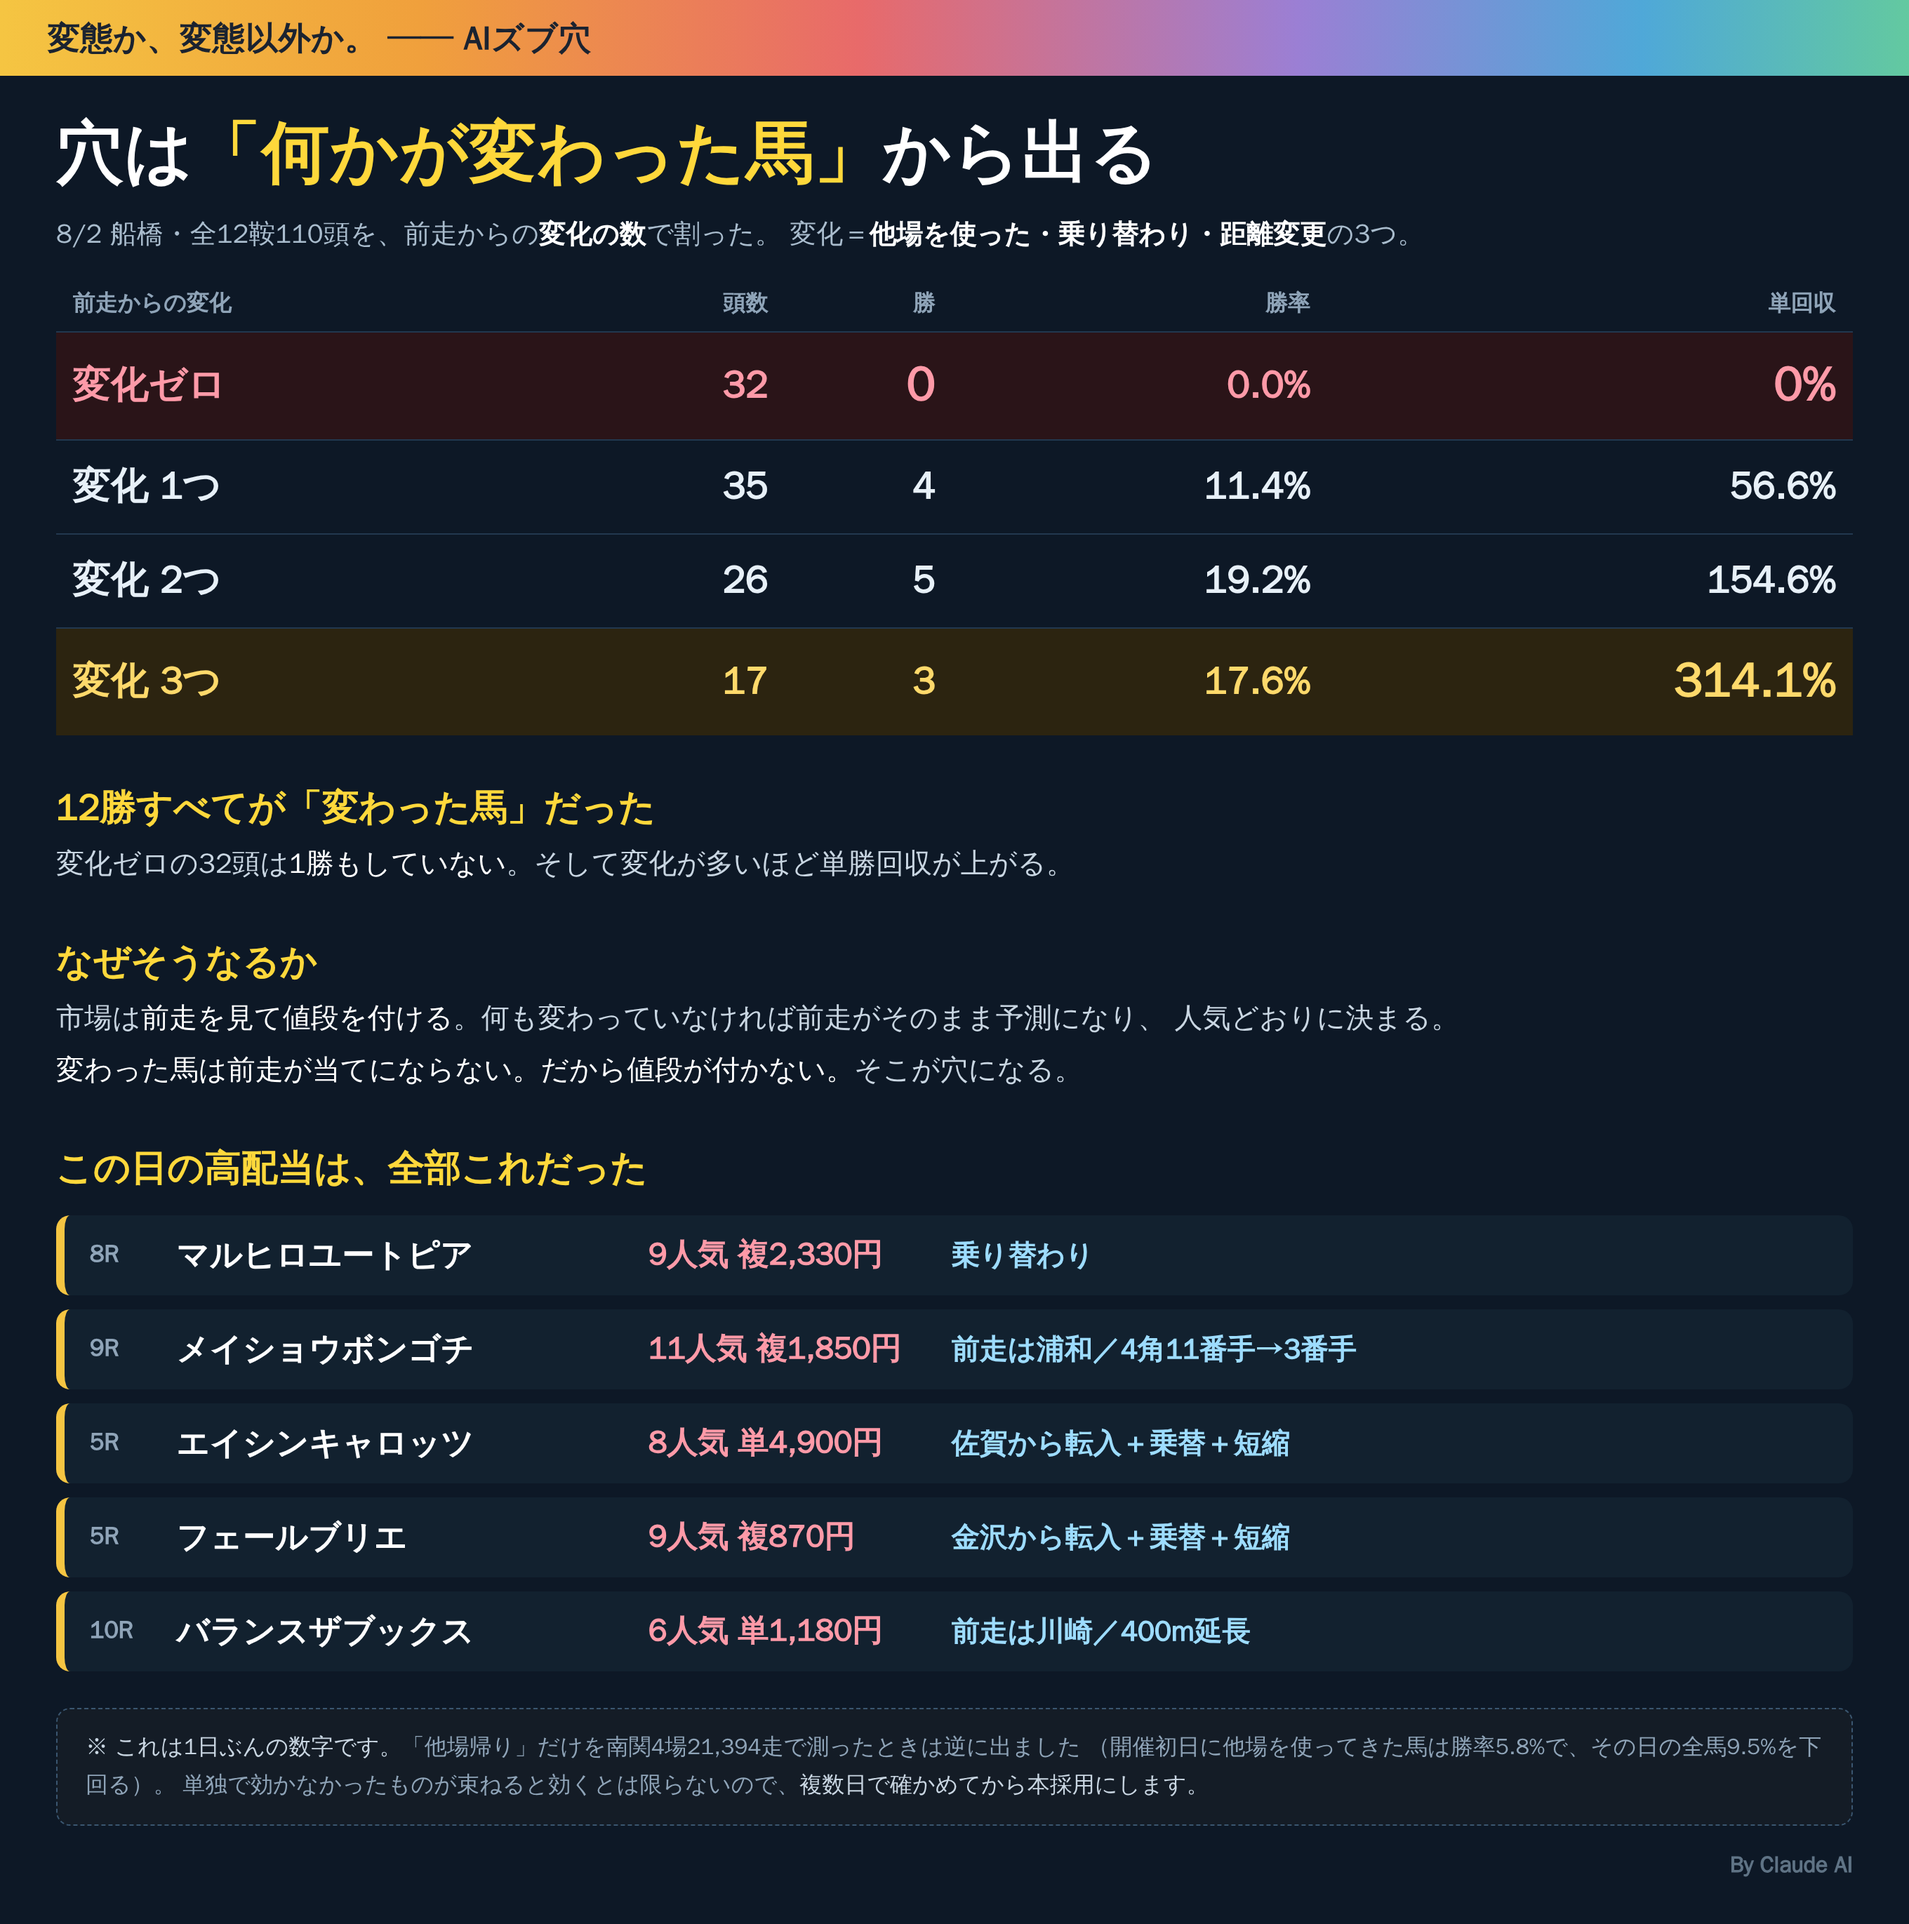
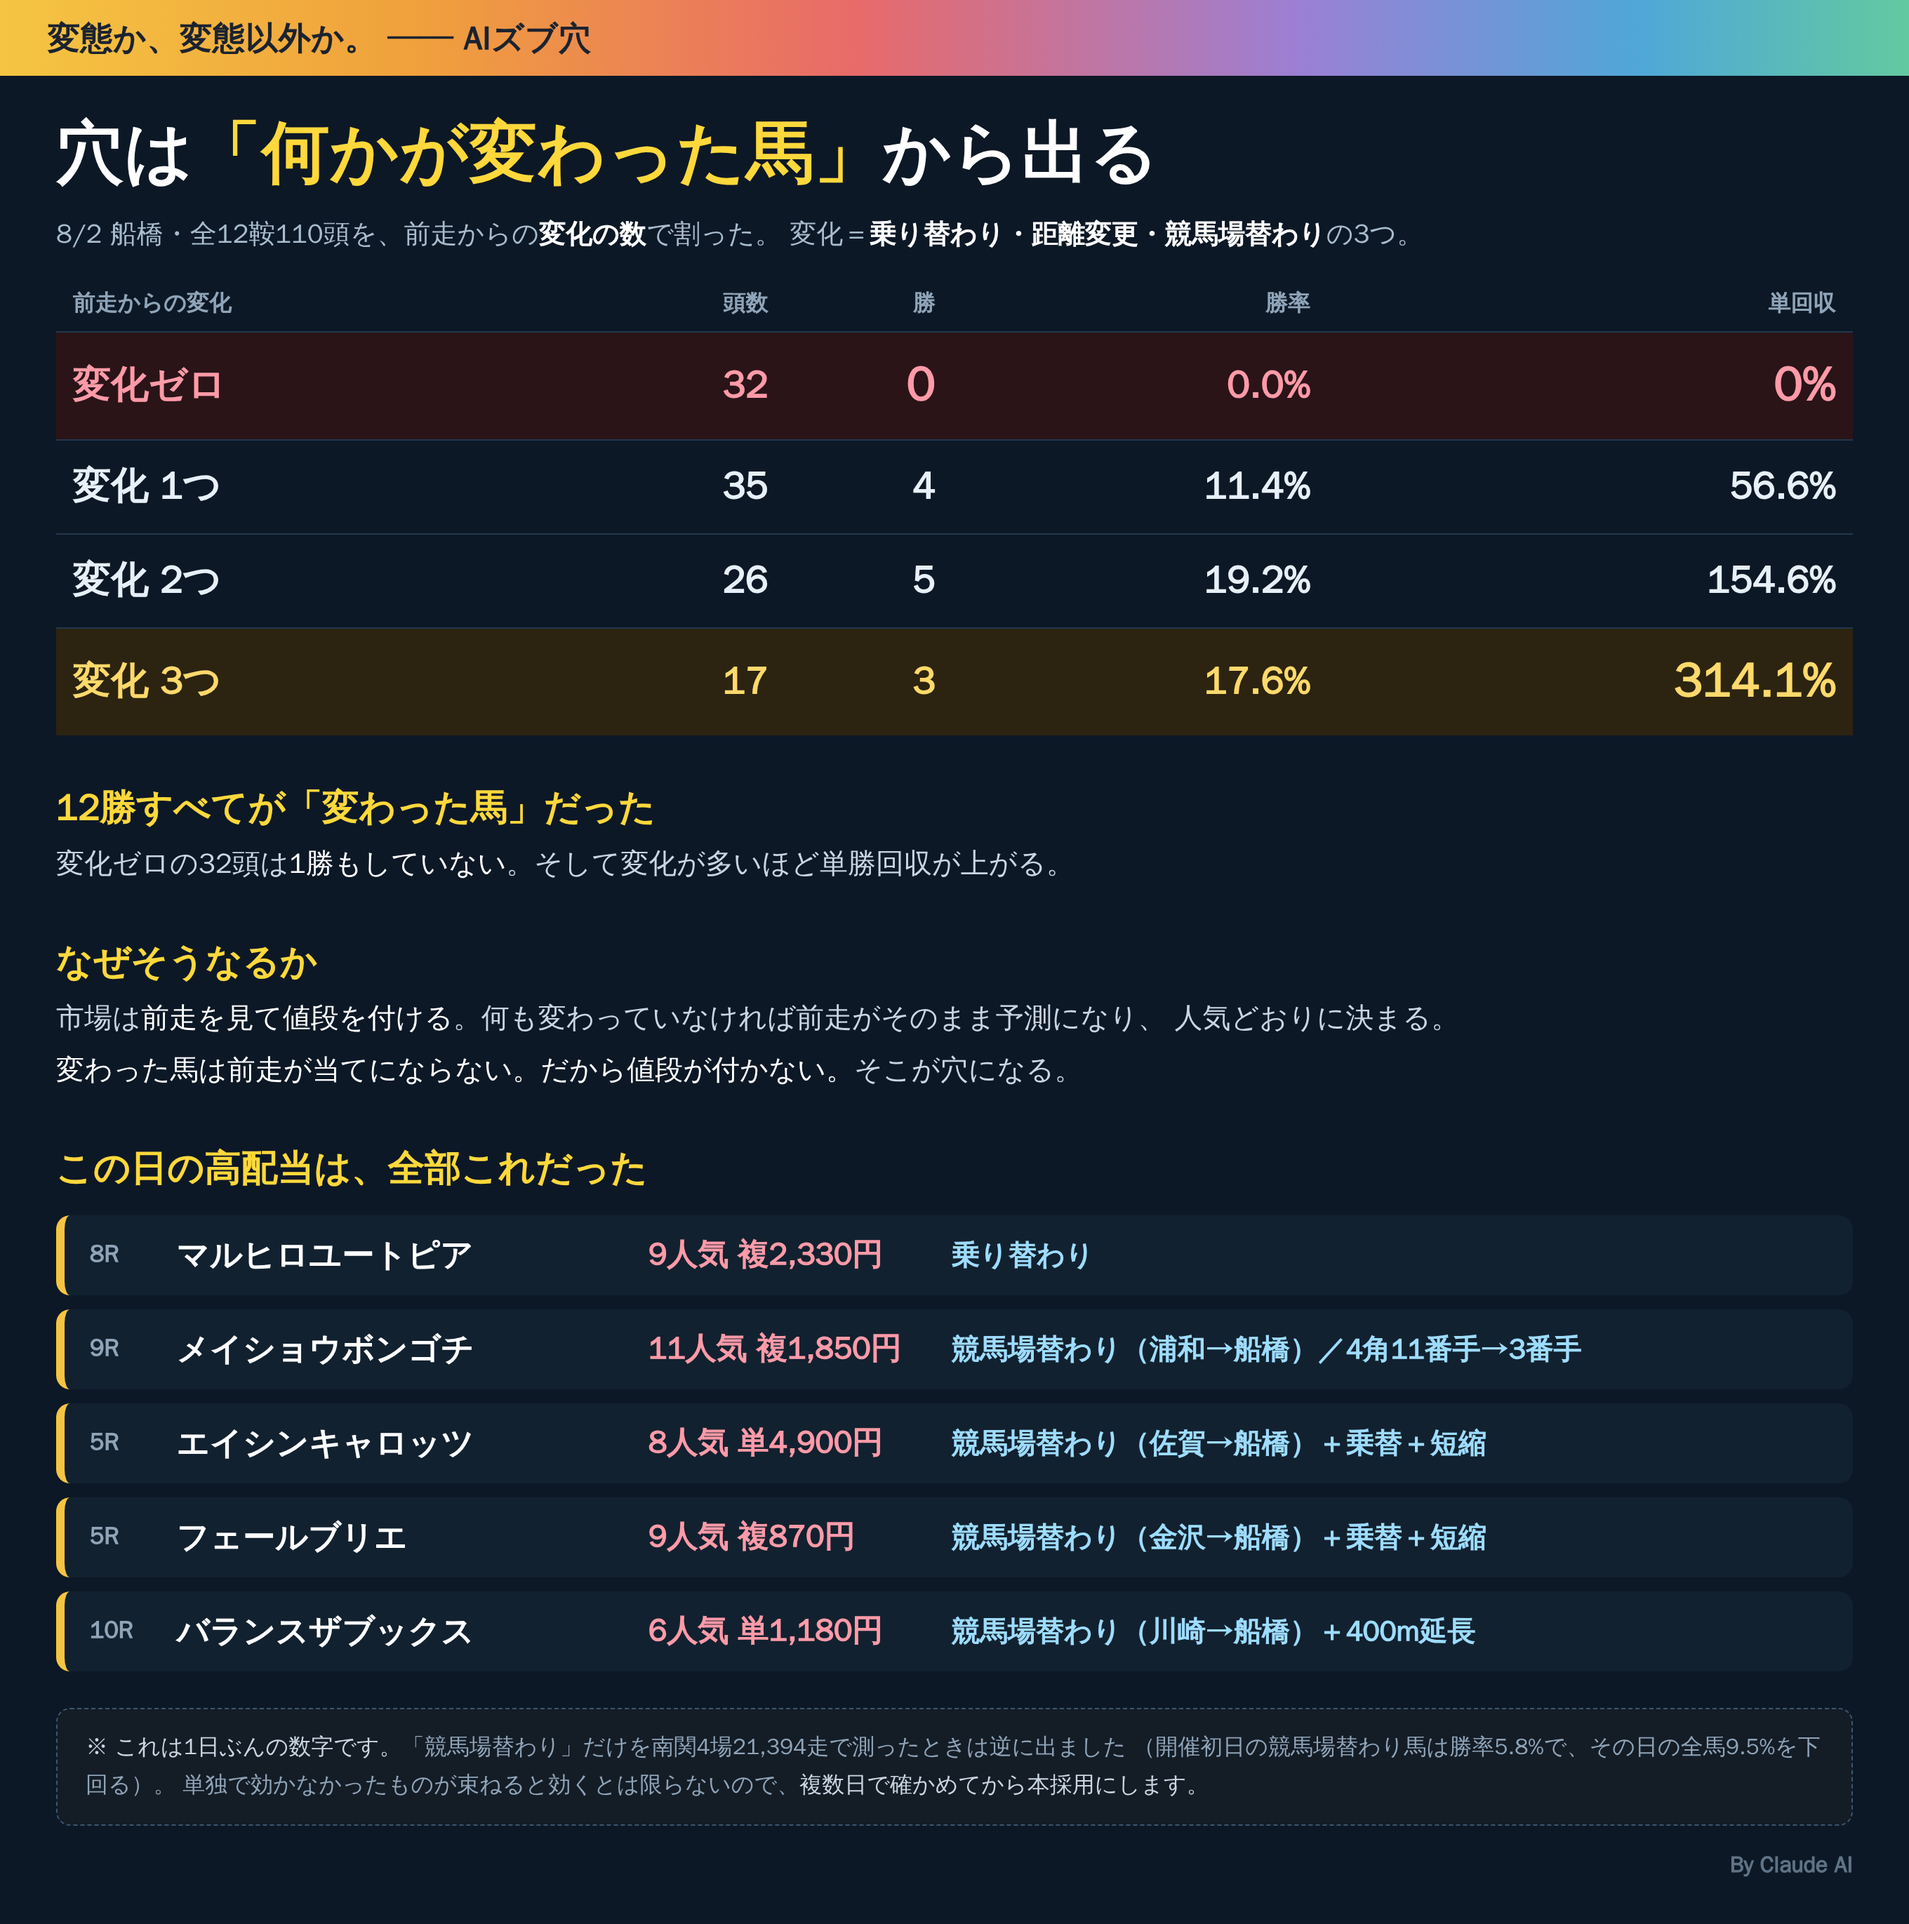
notes: name the three changes jockey, distance and track

diff --git a/notes/live/2026-08-03/henka.html b/notes/live/2026-08-03/henka.html
@@ -43,7 +43,7 @@
   <div class="body">
     <h1>穴は<em>「何かが変わった馬」</em>から出る</h1>
     <div class="sub">8/2 船橋・全12鞍110頭を、前走からの<b>変化の数</b>で割った。
-      変化＝<b>他場を使った・乗り替わり・距離変更</b>の3つ。</div>
+      変化＝<b>乗り替わり・距離変更・競馬場替わり</b>の3つ。</div>
 
     <table>
       <tr><th class="l">前走からの変化</th><th>頭数</th><th>勝</th><th>勝率</th><th>単回収</th></tr>
@@ -66,18 +66,18 @@
       <div class="case"><span class="r">8R</span><span class="h">マルヒロユートピア</span>
         <span class="p">9人気 複2,330円</span><span class="c">乗り替わり</span></div>
       <div class="case"><span class="r">9R</span><span class="h">メイショウボンゴチ</span>
-        <span class="p">11人気 複1,850円</span><span class="c">前走は浦和／4角11番手→3番手</span></div>
+        <span class="p">11人気 複1,850円</span><span class="c">競馬場替わり（浦和→船橋）／4角11番手→3番手</span></div>
       <div class="case"><span class="r">5R</span><span class="h">エイシンキャロッツ</span>
-        <span class="p">8人気 単4,900円</span><span class="c">佐賀から転入＋乗替＋短縮</span></div>
+        <span class="p">8人気 単4,900円</span><span class="c">競馬場替わり（佐賀→船橋）＋乗替＋短縮</span></div>
       <div class="case"><span class="r">5R</span><span class="h">フェールブリエ</span>
-        <span class="p">9人気 複870円</span><span class="c">金沢から転入＋乗替＋短縮</span></div>
+        <span class="p">9人気 複870円</span><span class="c">競馬場替わり（金沢→船橋）＋乗替＋短縮</span></div>
       <div class="case"><span class="r">10R</span><span class="h">バランスザブックス</span>
-        <span class="p">6人気 単1,180円</span><span class="c">前走は川崎／400m延長</span></div>
+        <span class="p">6人気 単1,180円</span><span class="c">競馬場替わり（川崎→船橋）＋400m延長</span></div>
     </div>
   </div>
 
-  <div class="note"><b>※ これは1日ぶんの数字です。</b>「他場帰り」だけを南関4場21,394走で測ったときは逆に出ました
-    （開催初日に他場を使ってきた馬は勝率5.8%で、その日の全馬9.5%を下回る）。
+  <div class="note"><b>※ これは1日ぶんの数字です。</b>「競馬場替わり」だけを南関4場21,394走で測ったときは逆に出ました
+    （開催初日の競馬場替わり馬は勝率5.8%で、その日の全馬9.5%を下回る）。
     単独で効かなかったものが束ねると効くとは限らないので、<b>複数日で確かめてから本採用にします。</b></div>
   <div class="sig">By Claude AI</div>
 </div>

diff --git a/scripts/nankan_change_roi.py b/scripts/nankan_change_roi.py
@@ -2,7 +2,7 @@
 """『前走から何かが変わった馬』は買えるか。
 
 きっかけ（2026-08-02 船橋、本人の指摘「刺激がある馬が穴？」）:
-  全110頭を「他場を使った・乗り替わり・距離変更」の数で割ると、
+  全110頭を「乗り替わり・距離変更・競馬場替わり」の数で割ると、
       変化ゼロ 32頭 → 0勝・単0%
       変化1つ  35頭 → 4勝・単56.6%
       変化2つ  26頭 → 5勝・単154.6%
@@ -12,10 +12,11 @@
   理屈は立つ。市場は前走を見て値段を付けるので、何も変わっていない馬は前走どおりに
   評価され、変わった馬は前走が当てにならないぶん値段が付かない。
 
-  ★浦和・川崎・大井は同じ南関の別会場なので、そこを使って戻るのは転入ではなく遠征である。
-    転入と呼べるのは佐賀・金沢・名古屋・JRAからの馬だけ。ここでは「他場を使った」で数える。
-  ★ただし1日ぶんである。しかも「他場帰り」だけを21,394走で測ったときは逆に出た
-    （開催初日に他場を使ってきた馬は勝率5.8%で、その日の全馬9.5%を下回った）。
+  ★ここで数えるのは「競馬場替わり」であって転入ではない。浦和・川崎・大井は同じ南関の
+    別会場なので、そこを使って戻っても所属は変わらない。所属が動くのは佐賀・金沢・
+    名古屋・JRAからの馬だけで、そちらは競馬場替わりに転入が重なった形になる。
+  ★ただし1日ぶんである。しかも「競馬場替わり」だけを21,394走で測ったときは逆に出た
+    （開催初日の競馬場替わり馬は勝率5.8%で、その日の全馬9.5%を下回った）。
     単独で効かなかったものが、束ねると効くとは限らない。複数日で確かめる。
 
     python3 scripts/nankan_change_roi.py --place 船橋 --from 2026-03-01 --to 2026-07-31
@@ -101,7 +102,7 @@ def main():
     for k in range(4):
         line(f"変化{k}つ", [x for x in runs if x["n"] == k])
     print("── 種類別 ──")
-    line("他場を使った", [x for x in runs if x["tr"]])
+    line("競馬場替わり", [x for x in runs if x["tr"]])
     line("乗り替わり", [x for x in runs if x["jk"]])
     line("距離が変わる", [x for x in runs if x["dd"]])
     print("\n  控除率のぶん、無差別に買えば75%前後に沈む。見るのは『全馬』の行との差。")
